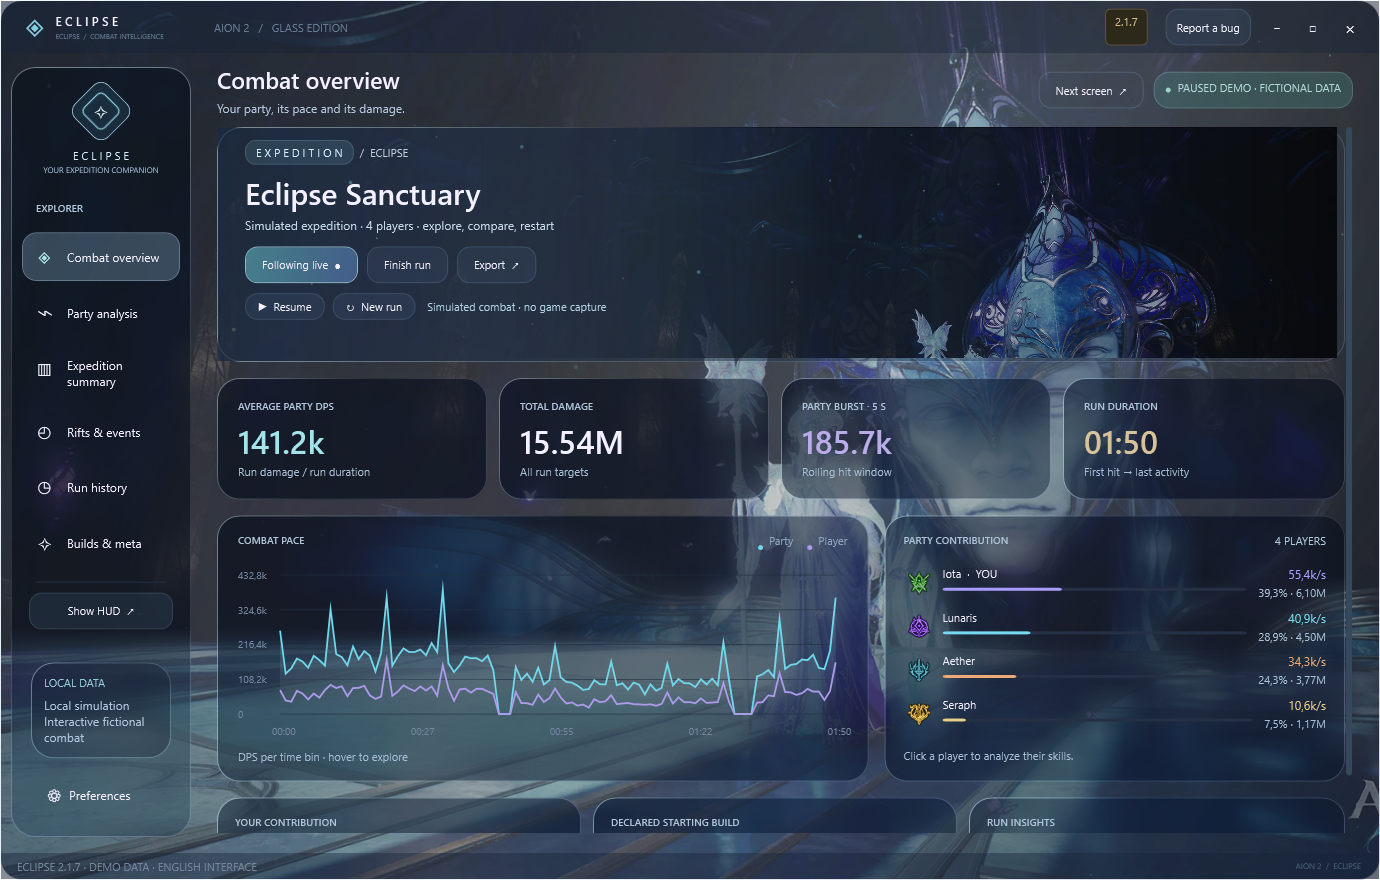
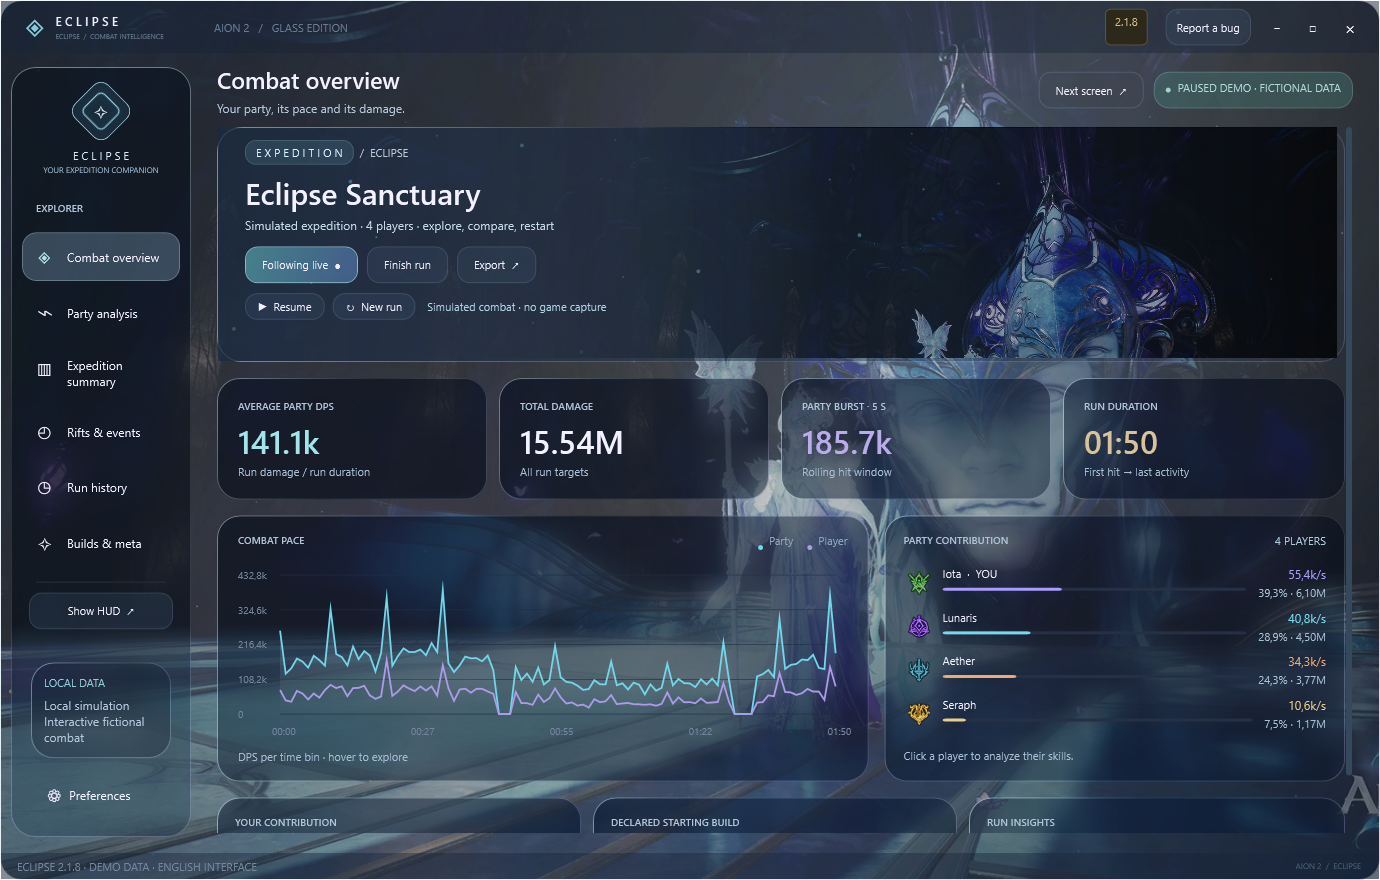
Release Eclipse 2.1.8 with corrected timers, client UPDATE and official website

diff --git a/README.md b/README.md
@@ -1,10 +1,10 @@
-# Eclipse 2.1.7 — Free AION 2 DPS Meter & Combat Analyzer
+# Eclipse 2.1.8 — Free AION 2 DPS Meter & Combat Analyzer
 
-![Eclipse 2.1.7 — AION 2 party DPS meter, Glass client and combat analysis for Windows](docs/images/eclipse-banner.svg)
+![Eclipse 2.1.8 — AION 2 party DPS meter, Glass client and combat analysis for Windows](docs/images/eclipse-banner.svg)
 
 [![Latest release](https://img.shields.io/github/v/release/Iota-Nine/Aion2-Eclipse?label=Download&color=75bdcf)](https://github.com/Iota-Nine/Aion2-Eclipse/releases/latest)
 [![Downloads](https://img.shields.io/github/downloads/Iota-Nine/Aion2-Eclipse/total?color=9384d0)](https://github.com/Iota-Nine/Aion2-Eclipse/releases)
-![Version 2.1.7](https://img.shields.io/badge/Version-2.1.7-d8bd88)
+![Version 2.1.8](https://img.shields.io/badge/Version-2.1.8-d8bd88)
 ![Windows x64](https://img.shields.io/badge/Windows-x64-507cab)
 ![English and French](https://img.shields.io/badge/Language-EN%20%2F%20FR-75bdcf)
 
@@ -12,11 +12,11 @@
 
 Eclipse is a free AION 2 damage meter for Windows with a live party overlay and a full Glass desktop client. Follow damage, inspect skills, review dungeon runs and compare your builds in one place. Keep it on a second monitor, minimize it during the fight, then come back to your expedition summary.
 
-**[Download Eclipse 2.1.7 for Windows](https://github.com/Iota-Nine/Aion2-Eclipse/releases/latest)** · [Français](docs/README.fr.md) · [What's new](CHANGELOG.md) · [Report an issue](https://github.com/Iota-Nine/Aion2-Eclipse/issues/new/choose)
+**[Download Eclipse 2.1.8 for Windows](https://github.com/Iota-Nine/Aion2-Eclipse/releases/latest)** · [Français](docs/README.fr.md) · [What's new](CHANGELOG.md) · [Report an issue](https://github.com/Iota-Nine/Aion2-Eclipse/issues/new/choose)
 
-**Eclipse 2.1.7 is the main Eclipse update and replaces V1.** Existing users can use **UPDATE**; new users get the same V2 ZIP. English is the default language. French is available in Preferences. No Eclipse account or signup is required.
+**Eclipse 2.1.8 is the main Eclipse update and replaces V1.** Existing users can use **UPDATE**; new users get the same V2 ZIP. English is the default language. French is available in Preferences. No Eclipse account or signup is required.
 
-![AION 2 DPS meter — Eclipse 2.1.7 English combat overview with party damage and skill analysis](docs/images/eclipse-combat-en.png)
+![AION 2 DPS meter — Eclipse 2.1.8 English combat overview with party damage and skill analysis](docs/images/eclipse-combat-en.png)
 
 *Native screenshot of the released client. All gallery combat values are explicitly labelled demo data.*
 
@@ -56,7 +56,7 @@ Travel portal entry/lifetime is **not confirmed by this source**, so Eclipse no 
 
 ## Official website and bug reports
 
-**[Open the Eclipse website](https://eclipse-aion2-dps-meter.smart-bead-7533.chatgpt.site)** for downloads, English/French features, client screenshots and optional ambient music. **Report a bug** in the client opens the private website form with your version filled in. Submitted fields are stored for support; JSON export is available. Combat logs and tokens are not uploaded automatically. GitHub Issues remain available for public discussions.
+**[Open the Eclipse website](https://eclipse-aion2-dps-meter.koayo.chatgpt.site)** for downloads, English/French features, client screenshots and optional ambient music. **Report a bug** in the client opens the private website form with your version filled in. Submitted fields are stored for support; JSON export is available. Combat logs and tokens are not uploaded automatically. GitHub Issues remain available for public discussions.
 
 ## Screenshots — English interface
 
@@ -88,7 +88,7 @@ The images below come from the native Windows application. Combat data is simula
 
 ## Install Eclipse
 
-1. Open the **[latest release](https://github.com/Iota-Nine/Aion2-Eclipse/releases/latest)** and download **`Aion2-Eclipse-v2.1.7-win-x64.zip`** under Assets. GitHub's “Source code” archives are not the application.
+1. Open the **[latest release](https://github.com/Iota-Nine/Aion2-Eclipse/releases/latest)** and download **`Aion2-Eclipse-v2.1.8-win-x64.zip`** under Assets. GitHub's “Source code” archives are not the application.
 2. **Extract the entire ZIP** to a folder on your PC.
 3. Run **`Eclipse.Setup.exe`**. Choose your language. If Npcap is missing, setup downloads its official installer, asks for Windows permission and lets you accept the installation wizard. Eclipse continues when it finishes.
 4. Open AION 2. If you were already in the world, teleport or change channels once to receive your character identity. Join or refresh your party after starting Eclipse.
@@ -98,7 +98,7 @@ Setup creates Desktop and Start menu shortcuts and installs Eclipse for your Win
 
 ## Upgrade from V1 or an earlier V2
 
-**UPDATE appears in the full client only when a newer version is detected, just like the overlay.** A luminous progress panel shows the real download percentage, then verification and installation preparation. **Click UPDATE in Eclipse to install Eclipse 2.1.7 in the same folder.** V2 uses the same executable name and public update channel. Existing `data` and HUD preferences are preserved; V2 creates its own client history there. The updater verifies the release and checks the installed executable version before restarting it.
+**UPDATE appears in the full client only when a newer version is detected, just like the overlay.** A luminous progress panel shows the real download percentage, then verification and installation preparation. **Click UPDATE in Eclipse to install Eclipse 2.1.8 in the same folder.** V2 uses the same executable name and public update channel. Existing `data` and HUD preferences are preserved; V2 creates its own client history there. The updater verifies the release and checks the installed executable version before restarting it.
 
 If an older updater keeps reopening V1, download the latest ZIP, extract it fully and run **`Eclipse.Setup.exe`** once. V1 is superseded; historical release pages remain available. An already downloaded V1 executable does not disable itself remotely.
 

diff --git a/docs/README.fr.md b/docs/README.fr.md
@@ -1,16 +1,16 @@
-# Eclipse 2.1.7 — Compteur DPS AION 2 et analyse des combats
+# Eclipse 2.1.8 — Compteur DPS AION 2 et analyse des combats
 
-![Eclipse 2.1.7 — compteur DPS AION 2, client Glass et analyse de groupe pour Windows](images/eclipse-banner.svg)
+![Eclipse 2.1.8 — compteur DPS AION 2, client Glass et analyse de groupe pour Windows](images/eclipse-banner.svg)
 
 **Suis les DPS de ton groupe en combat. Comprends tout le run quand le donjon est terminé.**
 
 Eclipse réunit un compteur de dégâts AION 2, un HUD et un grand client Windows à l'interface translucide. Regarde les compétences qui font la différence, conserve tes bilans et compare tes builds. Place le client sur un deuxième écran, réduis-le pendant le combat, puis retrouve ton résumé après le donjon.
 
-**[Télécharger Eclipse 2.1.7](https://github.com/Iota-Nine/Aion2-Eclipse/releases/latest)** · [English](../README.md) · [Nouveautés](../CHANGELOG.md) · [Signaler un bug](https://github.com/Iota-Nine/Aion2-Eclipse/issues/new/choose)
+**[Télécharger Eclipse 2.1.8](https://github.com/Iota-Nine/Aion2-Eclipse/releases/latest)** · [English](../README.md) · [Nouveautés](../CHANGELOG.md) · [Signaler un bug](https://github.com/Iota-Nine/Aion2-Eclipse/issues/new/choose)
 
-**La Eclipse 2.1.7 est la mise à jour principale d'Eclipse et remplace la V1.** Depuis la V1, clique sur **UPDATE**. Les nouveaux utilisateurs téléchargent le même ZIP. La langue initiale est l'anglais ; le français se choisit dans Preferences. Aucun compte Eclipse ni inscription.
+**Eclipse 2.1.8 est la mise à jour principale d'Eclipse et remplace la V1.** Depuis la V1, clique sur **UPDATE**. Les nouveaux utilisateurs téléchargent le même ZIP. La langue initiale est l'anglais ; le français se choisit dans Preferences. Aucun compte Eclipse ni inscription.
 
-![Interface anglaise d'Eclipse 2.1.7 — compteur DPS et dégâts du groupe dans AION 2](images/eclipse-combat-en.png)
+![Interface anglaise d'Eclipse 2.1.8 — compteur DPS et dégâts du groupe dans AION 2](images/eclipse-combat-en.png)
 
 *Capture de l'application Windows publiée, avec des valeurs fictives signalées dans l'interface. Toutes les captures de présentation sont en anglais.*
 
@@ -50,7 +50,7 @@ La durée du portail de voyage n'est **pas confirmée par cette source** : les p
 
 ## Site officiel et rapports de bugs
 
-**[Ouvrir le site Eclipse](https://eclipse-aion2-dps-meter.smart-bead-7533.chatgpt.site)** : téléchargement, présentation FR/EN, captures et musique d'ambiance facultative. **Report a bug** dans le client ouvre le formulaire privé avec ta version. Les champs envoyés sont enregistrés pour le dépannage et exportables en JSON. Aucun log de combat ni jeton n'est transmis automatiquement. GitHub Issues reste disponible pour les discussions publiques.
+**[Ouvrir le site Eclipse](https://eclipse-aion2-dps-meter.koayo.chatgpt.site)** : téléchargement, présentation FR/EN, captures et musique d'ambiance facultative. **Report a bug** dans le client ouvre le formulaire privé avec ta version. Les champs envoyés sont enregistrés pour le dépannage et exportables en JSON. Aucun log de combat ni jeton n'est transmis automatiquement. GitHub Issues reste disponible pour les discussions publiques.
 
 ## Captures — interface anglaise
 
@@ -70,7 +70,7 @@ Les images viennent du client Windows natif et utilisent des données de démons
 
 ## Installation
 
-1. Dans la **[dernière release](https://github.com/Iota-Nine/Aion2-Eclipse/releases/latest)**, télécharge **`Aion2-Eclipse-v2.1.7-win-x64.zip`** dans Assets. Les archives « Source code » de GitHub ne contiennent pas l'application.
+1. Dans la **[dernière release](https://github.com/Iota-Nine/Aion2-Eclipse/releases/latest)**, télécharge **`Aion2-Eclipse-v2.1.8-win-x64.zip`** dans Assets. Les archives « Source code » de GitHub ne contiennent pas l'application.
 2. **Extrais tout le ZIP** dans un dossier de ton PC.
 3. Lance **`Eclipse.Setup.exe`** et choisis la langue. Si Npcap manque, l'assistant télécharge son installateur officiel. Accepte la permission Windows et termine l'assistant Npcap ; Eclipse continue automatiquement.
 4. Lance AION 2. Si tu étais déjà en jeu, téléporte-toi ou change de canal une fois. Rejoins ou actualise le groupe après avoir ouvert Eclipse.
@@ -80,7 +80,7 @@ Le setup installe Eclipse pour ton compte Windows et crée les raccourcis Bureau
 
 ## Mise à jour depuis la V1 ou une V2 précédente
 
-**UPDATE apparaît dans le client uniquement lorsqu'une version plus récente est détectée, comme dans l'overlay.** Une barre lumineuse indique le pourcentage réel du téléchargement, puis les étapes de vérification et de préparation. **UPDATE installe Eclipse 2.1.7 dans le même dossier.** Le nom de l'exécutable et le canal public restent compatibles. Le dossier `data` et les réglages du HUD sont conservés ; le client V2 y ajoute son historique. L'updater vérifie la release et la version réellement installée avant de relancer Eclipse.
+**UPDATE apparaît dans le client uniquement lorsqu'une version plus récente est détectée, comme dans l'overlay.** Une barre lumineuse indique le pourcentage réel du téléchargement, puis les étapes de vérification et de préparation. **UPDATE installe Eclipse 2.1.8 dans le même dossier.** Le nom de l'exécutable et le canal public restent compatibles. Le dossier `data` et les réglages du HUD sont conservés ; le client V2 y ajoute son historique. L'updater vérifie la release et la version réellement installée avant de relancer Eclipse.
 
 Si un ancien updater boucle sur la V1, télécharge le dernier ZIP, extrais-le entièrement et lance **`Eclipse.Setup.exe`** une fois. La V1 est remplacée, mais les anciennes pages de release restent accessibles. Un ancien exécutable déjà téléchargé ne se désactive pas à distance.
 

diff --git a/CHANGELOG.md b/CHANGELOG.md
@@ -1,5 +1,13 @@
 # Eclipse release notes
 
+## v2.1.8 — Live official website and bug report link
+
+- Report a bug opens the published production website with the installed version. Updated README links and screenshots to 2.1.8.
+- Conditional UPDATE, real download progress, regional schedules, favourite reminders and silent app intro retained.
+- Website presentation uses one gallery with distinct client views and tighter section spacing.
+
+Validation: 436 logic checks, native UI, final ZIP migrations from V1 and 2.1.7, 424 original files unchanged. The private report table is accessible only through the owner's Sites account.
+
 ## v2.1.7 — Corrected regional schedules, conditional UPDATE and official website
 
 - AION2Hub replaces the former timer sources. Global EU/NA/SA/JP and Korea use fixed UTC+9, Taiwan UTC+8. Region-specific Rift openings convert to the device timezone without following US DST.
